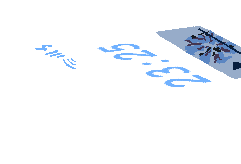
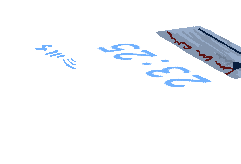
update 2325

Changed region(s): [[0.639, 0.1829, 1.0, 0.4878]]

diff --git a/utils.js b/utils.js
@@ -21,6 +21,7 @@ var hour1;
 var hour2;
 var min1;
 var min2;
+var tablePhoneScreen;
 
 var passcodeBuffer = '';
 var phoneClock;
@@ -58,7 +59,6 @@ function setClock() {
     // Clock based events
     if (currTime != prevTime) {
       var light = document.getElementById("lightID");
-      var phoneScreen = document.getElementById ("phone-screen");
       
 
       // 23:25: rainbow light
@@ -70,7 +70,7 @@ function setClock() {
         }
       } else {
         light.src = "images/light.png";
-        phoneScreen.style.opacity = "0";
+        tablePhoneScreen.style.display = 'none';
         if (diamondIntervalId) {
           clearInterval(diamondIntervalId);
           diamondIntervalId = null;
@@ -120,8 +120,7 @@ function updateDiamondPos() {
     diamondState = "ROLL_2";
   } else {
     diamondState = "STOP";
-    var phoneScreen = document.getElementById ("phone-screen");
-    phoneScreen.style.opacity = "1";
+    tablePhoneScreen.style.display = '';
   }
 
   // console.log(diamond.style.transform)
@@ -222,6 +221,7 @@ window.onload = function() {
   phoneClock = document.getElementById('phone-clock-ID');
   homeScreenItems = document.getElementById('home-screen-items-ID');
   passcodeHint = document.getElementById('passcode-hint-ID');
+  tablePhoneScreen = document.getElementById('phone-screen');
   hour1 = document.getElementById("hour1");
   hour2 = document.getElementById("hour2");
   min1 = document.getElementById("min1");

diff --git a/index.html b/index.html
@@ -27,7 +27,7 @@
 
       <img id="lightID" class="item light" src="images/light.png">
       <img class="item phone" id="table-phone-ID" src="images/phone.png" onclick="displayPhone()">
-      <img class="item phone" id="phone-screen" src="images/phone-screen-2325.png" style="display: none;">
+      <a href="https://youtu.be/Dd8cY0wEk0Y" target="_blank" rel="noreferrer noopener"><img class="item phone" id="phone-screen" src="images/phone-screen-2325.png" style="display: none;"></a>
 
       <img class="item coffee" src="images/coffee-with-steam.gif">
 
